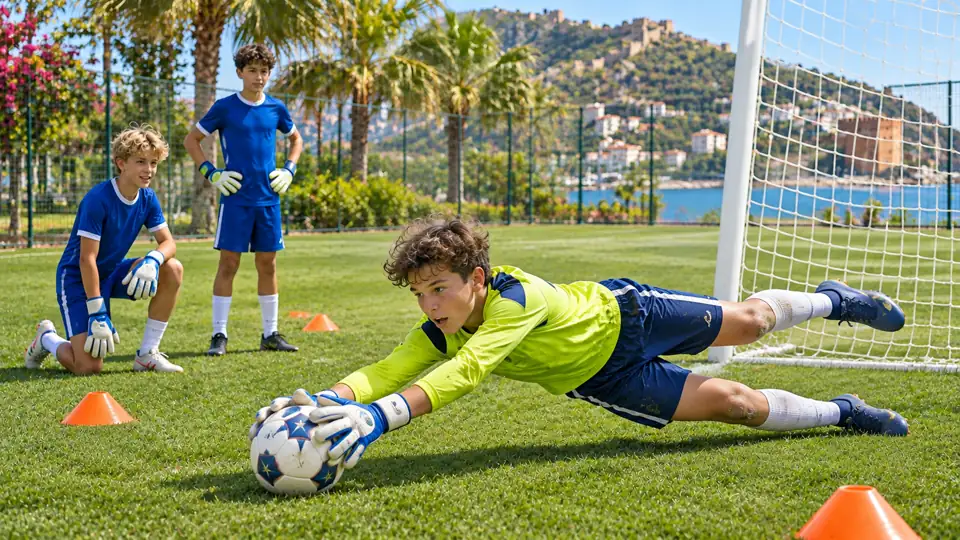
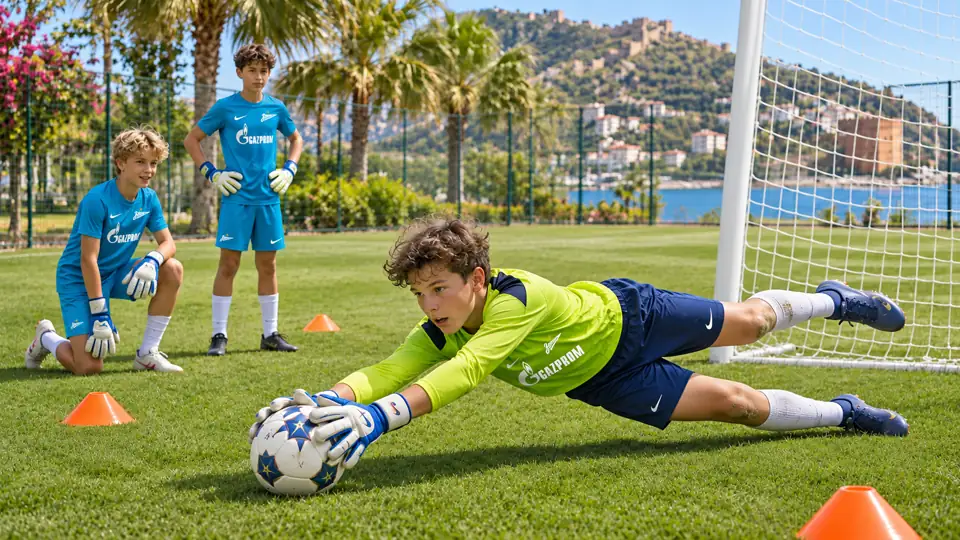
Match generated football gallery uniforms to the hero video

Changed region(s): [[0.0, 0.0, 1.0, 1.0], [0.6562, 0.1778, 0.75, 0.237], [0.6875, 0.4444, 0.75, 0.4741]]

diff --git a/site/index.html b/site/index.html
@@ -6,7 +6,7 @@
 <main>
 <section class="minimal-hero video-hero" id="home"><div class="hero-backdrop" aria-hidden="true"><img src="assets/media/zenit-poster.jpg" width="736" height="400" fetchpriority="high" alt=""><video id="hero-film" src="assets/media/zenit.mp4" autoplay muted loop playsinline preload="metadata" poster="assets/media/zenit-poster.jpg" tabindex="-1" disablepictureinpicture disableremoteplayback></video></div><div class="minimal-hero-copy"><p class="eyebrow blue" data-i18n="heroEyebrow">ЗЕНИТ · ФУТБОЛЬНАЯ ШКОЛА</p><h1><span data-i18n="cinema1">Футбол для детей.</span><span class="accent" data-i18n="cinema2">Своя команда в Аланье.</span></h1><p class="minimal-lead" data-i18n="cinemaDesc">Посмотрите тренировки, познакомьтесь с тренерами и узнайте о группе для вашего ребёнка.</p><a class="btn dark" href="#inquiry-form"><span data-i18n="heroCta">Узнать о группе</span><span aria-hidden="true">↗</span></a><p class="minimal-hint" data-i18n="heroHint">Группу, стоимость и время подтвердит администратор.</p></div></section>
 <section class="training section" id="training"><div class="section-heading split"><div><p class="eyebrow blue" data-i18n="trainingEyebrow">ЖИЗНЬ ШКОЛЫ</p><h2 data-i18n="storiesTitle">Как проходят тренировки</h2></div><a class="text-link" href="stories.html" data-story-link data-i18n="allStories">Все видео ↗</a></div><div class="training-tiles"><button class="training-tile" type="button" data-open-film="sand"><img src="assets/club-sand.webp" width="1600" height="900" loading="lazy" alt="Тренировка команды на песке"><span class="tile-play" aria-hidden="true">▶</span><small>27.10.2026 · 0:13</small><b data-i18n="sandStory">Песок. Движение. Команда.</b><p data-i18n="sandStoryCopy">Тренировка, которая остаётся в памяти. Кадры самой школы.</p></button><button class="training-tile" type="button" data-open-film="young"><img src="assets/club-training-young.jpg" width="640" height="360" loading="lazy" alt="Игровые задания для младших детей «Зенит Аланья»"><span class="tile-play" aria-hidden="true">▶</span><small>12.10.2026 · 0:54</small><b data-i18n="youngStory">Большая игра начинается с малого.</b><p data-i18n="youngStoryCopy">Игровые задания для младших. Посмотрите, как всё происходит.</p></button></div><div class="training-messages" id="messages"><div class="messages-heading"><h3 data-film-text="messages">Обращения к ребятам</h3><p data-film-text="messageNote">Из официальных публикаций школы.</p><a class="text-link messages-all" href="stories.html?category=team" data-story-link data-film-text="allMessages">Все обращения ↗</a></div><div class="message-players"><article class="message-card" aria-labelledby="erokhin-inline-title"><div class="message-card-header"><h4 id="erokhin-inline-title" data-film-title="message">Обращение Александра Ерохина</h4><p><time datetime="2026-10-16">16.10.2026</time> · <span data-film-text="beforeTournament">Перед Junior World Cup Antalya</span></p></div><video class="message-video" data-film-player="message" src="assets/media/erokhin-message.mp4" poster="assets/media/erokhin-message.jpg" title="Обращение Александра Ерохина" aria-label="Обращение Александра Ерохина" width="576" height="1024" controls playsinline preload="none" tabindex="0"></video><a class="message-download" href="assets/media/erokhin-message.mp4" download="zenit-alanya-erokhin.mp4"><span data-film-text="download">Скачать MP4</span><span>0:39</span></a><a class="message-source" href="https://www.instagram.com/zenitalanya/reel/Dejjp92OaRJ/" target="_blank" rel="noopener" data-film-text="source">Подробнее в Instagram ↗</a></article><article class="message-card" aria-labelledby="adamov-inline-title"><div class="message-card-header"><h4 id="adamov-inline-title" data-film-title="adamov">Поздравление Дениса Адамова</h4><p><time datetime="2026-05-26">26.05.2026</time> · <span data-film-text="anniversary">К трёхлетию школы</span></p></div><video class="message-video" data-film-player="adamov" src="assets/media/adamov-message.mp4" poster="assets/media/adamov-message.jpg" title="Поздравление Дениса Адамова" aria-label="Поздравление Дениса Адамова" width="576" height="1024" controls playsinline preload="none" tabindex="0"></video><a class="message-download" href="assets/media/adamov-message.mp4" download="zenit-alanya-adamov.mp4"><span data-film-text="download">Скачать MP4</span><span>0:22</span></a><a class="message-source" href="https://www.instagram.com/zenitalanya/reel/DYzvgJ2qCSN/" target="_blank" rel="noopener" data-film-text="source">Подробнее в Instagram ↗</a></article></div></div></section>
-<section class="academy-trust section" id="coaches"><div class="coach-intro"><p class="eyebrow blue" data-ac="coachEyebrow">ТРЕНЕРЫ И ДОВЕРИЕ</p><h2 data-ac="coachTitle">Важно знать,<br>кто рядом с ребёнком.</h2><p class="lead" data-ac="coachLead">Знакомство с тренером — часть выбора школы. Здесь люди, которых школа представила в своих публикациях.</p></div><div class="coach-cards"><article class="coach-card"><img src="assets/coach-zinovyeva.jpg" width="1440" height="1920" loading="lazy" decoding="async" alt="Таисия Кирилловна Зиновьева, тренер школы «Зенит Аланья» на фотографии клуба"><div class="coach-card-body"><span class="coach-kicker" data-ac="coachRole">ТРЕНЕР ШКОЛЫ</span><h3 data-ac="coachTaisia">Таисия Кирилловна Зиновьева</h3><p data-ac="coachTaisiaNote">Школа назвала Таисию Кирилловну своим тренером в публикации от 19 июня 2025 года.</p><a href="https://www.instagram.com/zenitalanya/p/DLFBqE2qP-5/" target="_blank" rel="noopener" data-ac="coachSource">Публикация школы ↗</a></div></article><article class="coach-card"><img src="assets/coach-arkhipenko.jpg" width="1177" height="1183" loading="lazy" decoding="async" alt="Андрей Архипенко, тренер школы «Зенит Аланья» на фотографии клуба"><div class="coach-card-body"><span class="coach-kicker" data-ac="coachRole">ТРЕНЕР ШКОЛЫ</span><h3 data-ac="coachAndrey">Андрей Архипенко</h3><p data-ac="coachAndreyNote">Школа назвала Андрея своим тренером в публикации от 5 декабря 2024 года.</p><a href="https://www.instagram.com/zenitalanya/p/DDNlByTMCPB/" target="_blank" rel="noopener" data-ac="coachSource">Публикация школы ↗</a></div></article></div><div class="training-gallery"><figure class="young-play"><img src="assets/young-play-ai.webp" width="1672" height="941" loading="lazy" decoding="async" alt="Иллюстрация: малыши играют с мячом на футбольном поле"><figcaption><strong data-ac="youngPlayTitle">Игра малышей</strong><span data-ac="youngPlayDisclosure">Иллюстрация, созданная ИИ</span></figcaption></figure><figure class="young-play gallery-secondary"><img src="assets/older-play-ai.webp" width="960" height="540" loading="lazy" decoding="async" alt="Иллюстрация: ребята постарше играют в футбол на поле"><figcaption><strong data-ac="olderPlayTitle">Игра ребят постарше</strong><span data-ac="youngPlayDisclosure">Иллюстрация, созданная ИИ</span></figcaption></figure><figure class="young-play gallery-secondary"><img src="assets/goalkeeper-training-ai.webp" width="960" height="540" loading="lazy" decoding="async" alt="Иллюстрация: юные вратари тренируются защищать ворота"><figcaption><strong data-ac="goalkeeperTitle">Тренировка вратарей</strong><span data-ac="youngPlayDisclosure">Иллюстрация, созданная ИИ</span></figcaption></figure></div><div class="coach-questions"><p data-ac="coachVerify">Текущий состав, возрастные группы, язык занятий, опыт и квалификацию уточняйте у школы. Портреты — из указанных публикаций клуба.</p><a class="text-link" href="#contacts" data-ac="coachAsk">Познакомиться с тренером через администратора ↗</a></div></section>
+<section class="academy-trust section" id="coaches"><div class="coach-intro"><p class="eyebrow blue" data-ac="coachEyebrow">ТРЕНЕРЫ И ДОВЕРИЕ</p><h2 data-ac="coachTitle">Важно знать,<br>кто рядом с ребёнком.</h2><p class="lead" data-ac="coachLead">Знакомство с тренером — часть выбора школы. Здесь люди, которых школа представила в своих публикациях.</p></div><div class="coach-cards"><article class="coach-card"><img src="assets/coach-zinovyeva.jpg" width="1440" height="1920" loading="lazy" decoding="async" alt="Таисия Кирилловна Зиновьева, тренер школы «Зенит Аланья» на фотографии клуба"><div class="coach-card-body"><span class="coach-kicker" data-ac="coachRole">ТРЕНЕР ШКОЛЫ</span><h3 data-ac="coachTaisia">Таисия Кирилловна Зиновьева</h3><p data-ac="coachTaisiaNote">Школа назвала Таисию Кирилловну своим тренером в публикации от 19 июня 2025 года.</p><a href="https://www.instagram.com/zenitalanya/p/DLFBqE2qP-5/" target="_blank" rel="noopener" data-ac="coachSource">Публикация школы ↗</a></div></article><article class="coach-card"><img src="assets/coach-arkhipenko.jpg" width="1177" height="1183" loading="lazy" decoding="async" alt="Андрей Архипенко, тренер школы «Зенит Аланья» на фотографии клуба"><div class="coach-card-body"><span class="coach-kicker" data-ac="coachRole">ТРЕНЕР ШКОЛЫ</span><h3 data-ac="coachAndrey">Андрей Архипенко</h3><p data-ac="coachAndreyNote">Школа назвала Андрея своим тренером в публикации от 5 декабря 2024 года.</p><a href="https://www.instagram.com/zenitalanya/p/DDNlByTMCPB/" target="_blank" rel="noopener" data-ac="coachSource">Публикация школы ↗</a></div></article></div><div class="training-gallery"><figure class="young-play"><img src="assets/young-play-ai.webp?v=20261105-kit" width="1672" height="941" loading="lazy" decoding="async" alt="Иллюстрация: малыши играют с мячом на футбольном поле"><figcaption><strong data-ac="youngPlayTitle">Игра малышей</strong><span data-ac="youngPlayDisclosure">Иллюстрация, созданная ИИ</span></figcaption></figure><figure class="young-play gallery-secondary"><img src="assets/older-play-ai.webp?v=20261105-kit" width="960" height="540" loading="lazy" decoding="async" alt="Иллюстрация: ребята постарше играют в футбол на поле"><figcaption><strong data-ac="olderPlayTitle">Игра ребят постарше</strong><span data-ac="youngPlayDisclosure">Иллюстрация, созданная ИИ</span></figcaption></figure><figure class="young-play gallery-secondary"><img src="assets/goalkeeper-training-ai.webp?v=20261105-kit" width="960" height="540" loading="lazy" decoding="async" alt="Иллюстрация: юные вратари тренируются защищать ворота"><figcaption><strong data-ac="goalkeeperTitle">Тренировка вратарей</strong><span data-ac="youngPlayDisclosure">Иллюстрация, созданная ИИ</span></figcaption></figure></div><div class="coach-questions"><p data-ac="coachVerify">Текущий состав, возрастные группы, язык занятий, опыт и квалификацию уточняйте у школы. Портреты — из указанных публикаций клуба.</p><a class="text-link" href="#contacts" data-ac="coachAsk">Познакомиться с тренером через администратора ↗</a></div></section>
 <section class="section journey-teaser" id="player-journey"><div class="journey-teaser-copy"><p class="eyebrow" data-i18n="journeyKicker">ЖУРНАЛ ИГРОКА · ВЫПУСК 01</p><h2 data-i18n="journeyTitle">Как растёт своя игра.</h2><p data-i18n="journeyLead">От первого мяча в пять лет до поддержки младших в шестнадцать. Шесть глав вымышленного героя — о смелости, дружбе и своём месте в команде.</p><a class="journey-cta" data-journey-link href="journey.html" data-i18n="journeyCta">Открыть карточки и комикс ↗</a><small data-i18n="journeyFiction">Иллюстрированная история, а не программа клуба или обещание результата.</small></div><figure class="journey-teaser-image"><a href="journey.html" data-journey-link><img src="assets/player-journey-v1.webp" width="1536" height="1024" alt="Шесть глав вымышленного футболиста: знакомство, ведение, пас, поддержка, тактика и помощь младшим" loading="lazy" decoding="async"></a><figcaption data-i18n="journeyCaption">5–16 ЛЕТ · ОДИН ГЕРОЙ · СВОЙ ТЕМП</figcaption></figure></section>
 <section class="start-section section" id="start"><div class="start-copy"><p class="eyebrow" data-i18n="startEyebrow">ПЕРВЫЙ ШАГ</p><h2 data-i18n="startTitle">Давайте знакомиться.</h2><p data-i18n="startCopy">Уточните группу, время, площадку и стоимость. Позвоните или напишите.</p><div class="contact-block" id="contacts"><p class="contact-label" data-i18n="contactsLabel">КОНТАКТЫ ИЗ ОФИЦИАЛЬНОГО TELEGRAM</p><article class="contact-person" aria-labelledby="contacts-anastasia" data-contact-person="anastasia"><h3 id="contacts-anastasia" data-i18n="anastasia">Анастасия</h3><p class="contact-number">+90 536 942 48 42</p><div class="contact-actions"><a class="contact-action contact-action-call" href="tel:+905369424842" aria-labelledby="contacts-anastasia contacts-anastasia-call"><span id="contacts-anastasia-call" data-i18n="call">Позвонить ↗</span></a><a class="contact-action contact-action-telegram" href="https://t.me/+905369424842" aria-labelledby="contacts-anastasia contacts-anastasia-telegram" target="_blank" rel="noopener noreferrer"><span id="contacts-anastasia-telegram">Telegram</span></a><a class="contact-action contact-action-whatsapp" href="https://wa.me/905369424842" aria-labelledby="contacts-anastasia contacts-anastasia-whatsapp" target="_blank" rel="noopener noreferrer"><span id="contacts-anastasia-whatsapp">WhatsApp</span></a></div></article><article class="contact-person" aria-labelledby="contacts-anna" data-contact-person="anna"><h3 id="contacts-anna" data-i18n="anna">Анна</h3><p class="contact-number">+90 538 889 92 72</p><div class="contact-actions"><a class="contact-action contact-action-call" href="tel:+905388899272" aria-labelledby="contacts-anna contacts-anna-call"><span id="contacts-anna-call" data-i18n="call">Позвонить ↗</span></a><a class="contact-action contact-action-telegram" href="https://t.me/+905388899272" aria-labelledby="contacts-anna contacts-anna-telegram" target="_blank" rel="noopener noreferrer"><span id="contacts-anna-telegram">Telegram</span></a><a class="contact-action contact-action-whatsapp" href="https://wa.me/905388899272" aria-labelledby="contacts-anna contacts-anna-whatsapp" target="_blank" rel="noopener noreferrer"><span id="contacts-anna-whatsapp">WhatsApp</span></a></div></article><a class="contact-source" href="https://t.me/zenitalanya" target="_blank" rel="noopener" data-i18n="contactSource">Контакты в официальном Telegram ↗</a></div></div><form id="inquiry-form" class="inquiry-form">
 <div class="funnel-progress" aria-label="Progress"><span id="funnel-progress-1" aria-current="step"><b>1</b><span data-i18n="progress1">О РЕБЁНКЕ</span></span><span id="funnel-progress-2" aria-current="false"><b>2</b><span data-i18n="progress2">ПЕРВЫЙ ШАГ</span></span></div>
